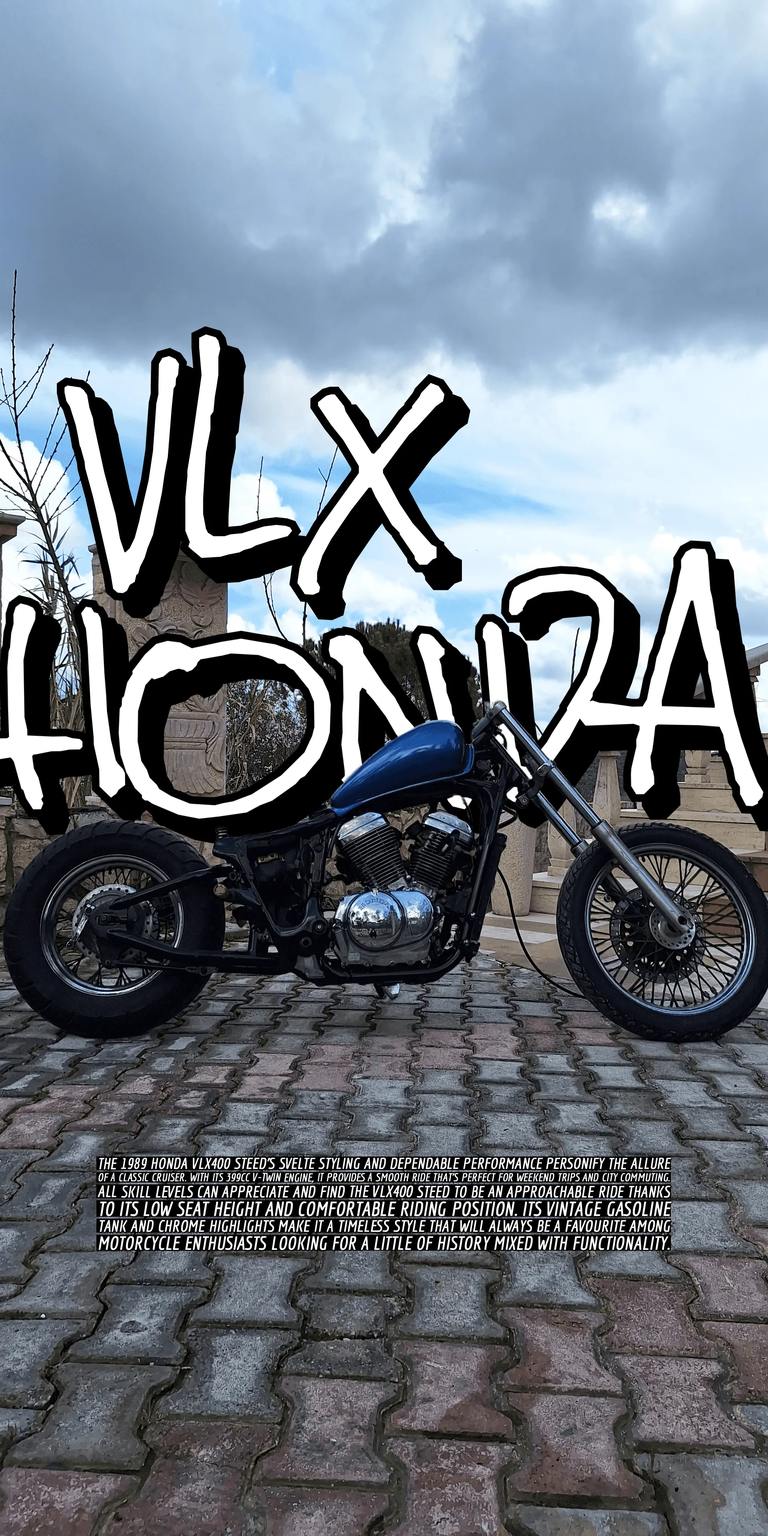
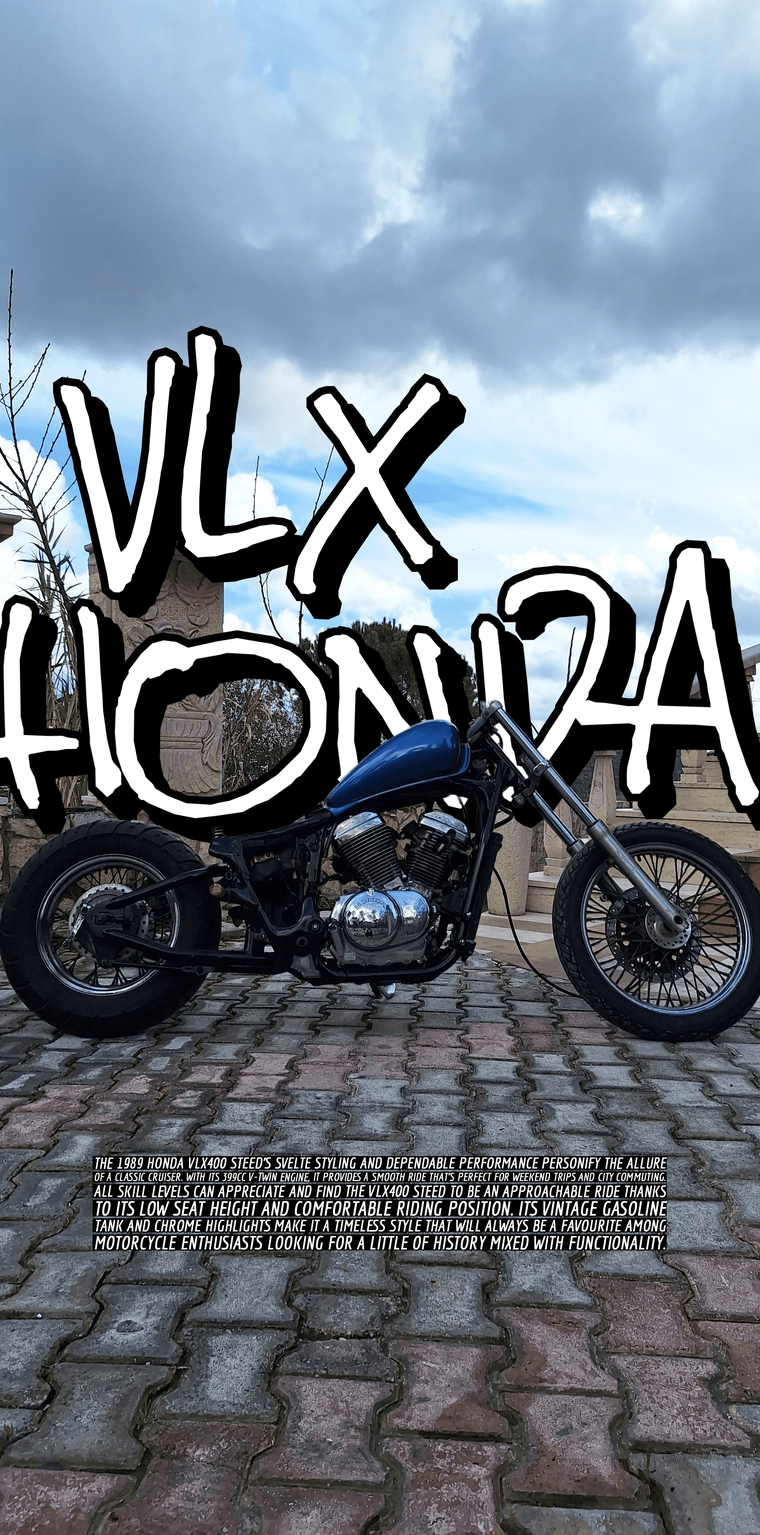
RESIZED THIS ONE STUPID IMAGE

diff --git a/index.html b/index.html
@@ -78,10 +78,10 @@
         </div>
       </div>
     </div>
-    
-      <h1 class="mt-auto mb-4" style="position: absolute;vertical-align: bottom;top: 90vh;"><a class="scrollto" href="#about"><i
-          class="bi bi-arrow-down-square"></i></a></h1>
-    
+
+    <h1 class="mt-auto mb-4" style="position: absolute;vertical-align: bottom;top: 90vh;"><a class="scrollto"
+        href="#about"><i class="bi bi-arrow-down-square"></i></a></h1>
+
   </div><!-- End Hero Section -->
 
   <main id="main">
@@ -238,8 +238,7 @@
           <div class="column photo-column">
             <a href="assets/img/VLX400Poster2.webp" aria-label="VLX400Poster2" data-gallery="PhotosGallery"
               class="portfolio-lightbox">
-              <img class="display-photo" src="assets/img/VLX400Poster2.webp" alt="VLX400Poster2 Image"
-                style="height: -webkit-fill-available;">
+              <img class="display-photo" src="assets/img/VLX400Poster2.webp" alt="VLX400Poster2 Image">
             </a>
           </div>
           <div class="column photo-column">
@@ -276,9 +275,9 @@
               <div class="row">
                 <div class="col-md-12">
                   <div class="title-box-2 pt-4 pt-md-0">
-                    <h5 class="title-left">
+                    <h6 class="title-left">
                       Contact
-                    </h5>
+                    </h6>
                   </div>
                   <div class="more-info">
                     <p class="lead contact-text-header">

diff --git a/assets/css/style.css b/assets/css/style.css
@@ -58,6 +58,7 @@ a:hover {
 
 p {
   font-family: "Poppins-Regular";
+  text-align: justify;
 }
 
 .p-r {
